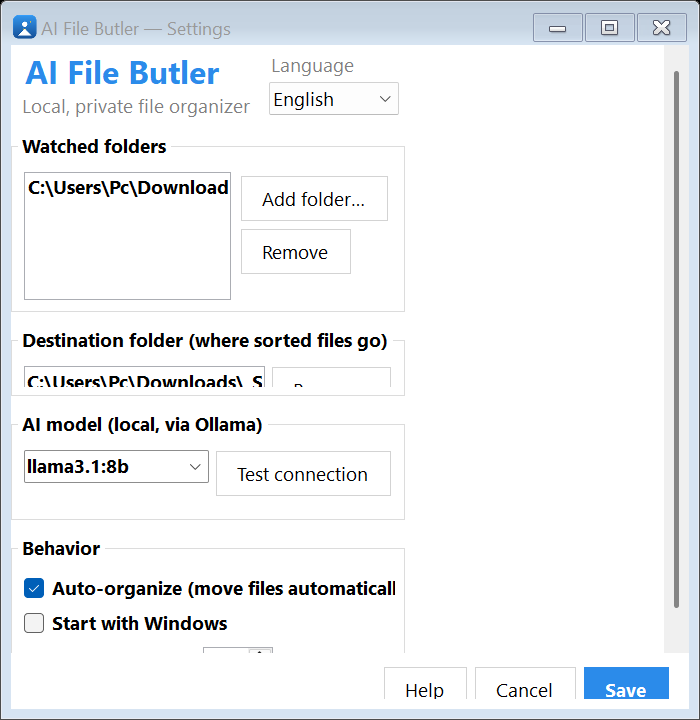
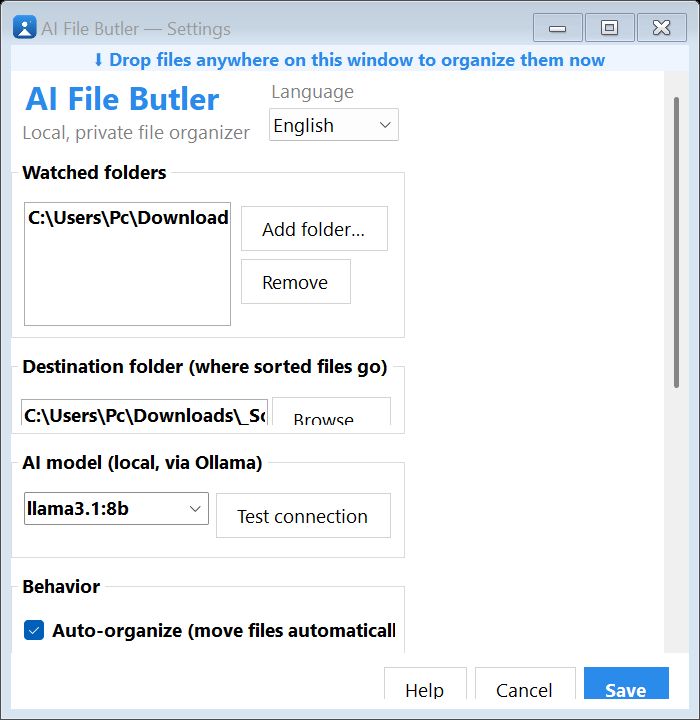
Add drag-and-drop, video date/location sorting, and many more file formats
- Drag files onto the Settings window to organize them immediately
- Videos can be sorted by date or location (for phone videos), not only genre/actor
- Greatly expanded format coverage + new Books, Fonts and Design categories

diff --git a/Watcher.cs b/Watcher.cs
@@ -67,26 +67,9 @@ public sealed class Watcher
                 foreach (var file in Eligible(dir))
                 {
                     var snippet = Extractor.Snippet(file.FullName, _cfg.MaxContentChars);
-                    Suggestion sug;
-                    var rule = _cfg.MatchRule(file.Name + "\n" + snippet);
-                    var learnedCat = rule is null ? _learner.Suggest(file.Name) : null;
-                    if (rule is not null)
-                    {
-                        var fname = Slug.Make(Path.GetFileNameWithoutExtension(file.Name), file.Extension);
-                        sug = new Suggestion("rule", fname, 0.95, $"your rule: \"{rule.Match}\"", "rule")
-                        { FolderOverride = rule.Folder };
-                    }
-                    else if (learnedCat is not null)
-                    {
-                        var fname = Slug.Make(Path.GetFileNameWithoutExtension(file.Name), file.Extension);
-                        sug = new Suggestion(learnedCat, fname, 0.95, "learned from your correction", "learned");
-                    }
-                    else
-                    {
-                        try { sug = clf.Classify(file, snippet); }
-                        catch (Exception ex) { Notify?.Invoke(EventKind.Error, $"{file.Name}: {ex.Message}"); continue; }
-                    }
-
+                    var decided = Decide(file, snippet, clf);
+                    if (decided is null) continue;
+                    var sug = decided.Value;
                     if (sug.Category == "music") sug = MediaMeta.EnrichMusic(file, sug);
                     var plan = Organizer.BuildPlan(file, sug, _cfg);
                     plans.Add(plan);
@@ -108,6 +91,56 @@ public sealed class Watcher
                 Notify?.Invoke(EventKind.Organized, string.Format(L.S("n_organized"), plans.Count, names + extra));
             }
             return plans;
+        }
+    }
+
+    /// <summary>Decide where a file goes: user rule, then learned, then AI/rules.
+    /// Returns null to skip (e.g. the classifier errored).</summary>
+    private Suggestion? Decide(FileInfo file, string snippet, IClassifier clf)
+    {
+        var fname = Slug.Make(Path.GetFileNameWithoutExtension(file.Name), file.Extension);
+        var rule = _cfg.MatchRule(file.Name + "\n" + snippet);
+        if (rule is not null)
+            return new Suggestion("rule", fname, 0.95, $"your rule: \"{rule.Match}\"", "rule") { FolderOverride = rule.Folder };
+        var learned = _learner.Suggest(file.Name);
+        if (learned is not null)
+            return new Suggestion(learned, fname, 0.95, "learned from your correction", "learned");
+        try { return clf.Classify(file, snippet); }
+        catch (Exception ex) { Notify?.Invoke(EventKind.Error, $"{file.Name}: {ex.Message}"); return null; }
+    }
+
+    /// <summary>Organize an explicit set of files now (e.g. drag-and-dropped),
+    /// regardless of folder/age settings. Runs on the calling thread.</summary>
+    public void OrganizeDropped(IEnumerable<string> paths)
+    {
+        lock (_lock)
+        {
+            var clf = ClassifierFactory.Get(_cfg);
+            Backend = clf.Backend;
+            var plans = new List<Plan>();
+            foreach (var p in paths)
+            {
+                if (!File.Exists(p)) continue;
+                var file = new FileInfo(p);
+                if (_cfg.IgnoreExts.Contains(file.Extension, StringComparer.OrdinalIgnoreCase)) continue;
+                var snippet = Extractor.Snippet(file.FullName, _cfg.MaxContentChars);
+                var decided = Decide(file, snippet, clf);
+                if (decided is null) continue;
+                var sug = decided.Value;
+                if (sug.Category == "music") sug = MediaMeta.EnrichMusic(file, sug);
+                var plan = Organizer.BuildPlan(file, sug, _cfg);
+                Organizer.Apply(plan);
+                _learner.RecordPlacement(plan.Dst, file.Name, plan.Category);
+                SessionCount++;
+                plans.Add(plan);
+            }
+            if (plans.Count > 0)
+            {
+                LastBatchSize = plans.Count;
+                var names = string.Join(", ", plans.Take(3).Select(p => p.DstName));
+                var extra = plans.Count > 3 ? $" +{plans.Count - 3} more" : "";
+                Notify?.Invoke(EventKind.Organized, string.Format(L.S("n_organized"), plans.Count, names + extra));
+            }
         }
     }
 

diff --git a/Classifier.cs b/Classifier.cs
@@ -153,19 +153,48 @@ public sealed class RuleClassifier : IClassifier
 
     private static readonly Dictionary<string, string> ExtCategory = new(StringComparer.OrdinalIgnoreCase)
     {
-        [".jpg"] = "image", [".jpeg"] = "image", [".png"] = "image", [".gif"] = "image",
-        [".webp"] = "image", [".bmp"] = "image", [".heic"] = "image", [".svg"] = "image",
-        [".exe"] = "installer", [".msi"] = "installer", [".msix"] = "installer", [".appx"] = "installer",
-        [".zip"] = "archive", [".rar"] = "archive", [".7z"] = "archive", [".tar"] = "archive",
-        [".gz"] = "archive", [".iso"] = "archive",
-        [".mp4"] = "movie", [".mkv"] = "movie", [".mov"] = "movie", [".avi"] = "movie", [".wmv"] = "movie", [".webm"] = "movie",
-        [".mp3"] = "music", [".wav"] = "music", [".flac"] = "music", [".m4a"] = "music", [".aac"] = "music", [".ogg"] = "music",
-        [".py"] = "code", [".js"] = "code", [".ts"] = "code", [".cs"] = "code", [".java"] = "code",
-        [".c"] = "code", [".cpp"] = "code", [".go"] = "code", [".rs"] = "code", [".sql"] = "code",
-        [".sh"] = "code", [".ps1"] = "code",
-        [".doc"] = "document", [".docx"] = "document", [".txt"] = "document", [".md"] = "document",
-        [".rtf"] = "document", [".odt"] = "document", [".pptx"] = "document", [".xlsx"] = "document",
-        [".csv"] = "document", [".pdf"] = "document",
+        // Images / photos
+        [".jpg"]="image",[".jpeg"]="image",[".jfif"]="image",[".png"]="image",[".gif"]="image",
+        [".webp"]="image",[".bmp"]="image",[".heic"]="image",[".heif"]="image",[".svg"]="image",
+        [".tif"]="image",[".tiff"]="image",[".ico"]="image",[".avif"]="image",[".raw"]="image",
+        [".cr2"]="image",[".cr3"]="image",[".nef"]="image",[".arw"]="image",[".dng"]="image",[".orf"]="image",[".rw2"]="image",
+        // Video
+        [".mp4"]="movie",[".mkv"]="movie",[".mov"]="movie",[".avi"]="movie",[".wmv"]="movie",[".webm"]="movie",
+        [".m4v"]="movie",[".mpg"]="movie",[".mpeg"]="movie",[".3gp"]="movie",[".flv"]="movie",[".ts"]="movie",
+        [".m2ts"]="movie",[".mts"]="movie",[".vob"]="movie",[".ogv"]="movie",[".rm"]="movie",[".rmvb"]="movie",[".divx"]="movie",
+        [".srt"]="movie",[".sub"]="movie",[".ass"]="movie",[".vtt"]="movie",[".ssa"]="movie",
+        // Audio / music
+        [".mp3"]="music",[".wav"]="music",[".flac"]="music",[".m4a"]="music",[".aac"]="music",[".ogg"]="music",
+        [".wma"]="music",[".opus"]="music",[".aiff"]="music",[".aif"]="music",[".alac"]="music",[".mid"]="music",
+        [".midi"]="music",[".amr"]="music",[".ape"]="music",[".dsf"]="music",
+        // Installers / packages
+        [".exe"]="installer",[".msi"]="installer",[".msix"]="installer",[".appx"]="installer",[".appxbundle"]="installer",
+        [".apk"]="installer",[".aab"]="installer",[".deb"]="installer",[".rpm"]="installer",[".dmg"]="installer",
+        [".pkg"]="installer",[".bat"]="installer",[".cmd"]="installer",[".jar"]="installer",
+        // Archives / disk images
+        [".zip"]="archive",[".rar"]="archive",[".7z"]="archive",[".tar"]="archive",[".gz"]="archive",
+        [".bz2"]="archive",[".xz"]="archive",[".tgz"]="archive",[".zst"]="archive",[".lz"]="archive",[".lzma"]="archive",
+        [".cab"]="archive",[".arj"]="archive",[".iso"]="archive",[".img"]="archive",[".vhd"]="archive",[".vhdx"]="archive",
+        // Code / dev
+        [".py"]="code",[".js"]="code",[".mjs"]="code",[".ts"]="code",[".tsx"]="code",[".jsx"]="code",[".cs"]="code",
+        [".java"]="code",[".kt"]="code",[".c"]="code",[".h"]="code",[".cpp"]="code",[".cc"]="code",[".hpp"]="code",
+        [".go"]="code",[".rs"]="code",[".rb"]="code",[".php"]="code",[".swift"]="code",[".scala"]="code",[".lua"]="code",
+        [".pl"]="code",[".r"]="code",[".dart"]="code",[".vue"]="code",[".sql"]="code",[".sh"]="code",[".ps1"]="code",
+        [".html"]="code",[".htm"]="code",[".css"]="code",[".scss"]="code",[".json"]="code",[".xml"]="code",
+        [".yaml"]="code",[".yml"]="code",[".toml"]="code",[".ini"]="code",[".gradle"]="code",[".ipynb"]="code",
+        // Documents / office / data
+        [".doc"]="document",[".docx"]="document",[".txt"]="document",[".md"]="document",[".rtf"]="document",
+        [".odt"]="document",[".pptx"]="document",[".ppt"]="document",[".odp"]="document",[".xlsx"]="document",
+        [".xls"]="document",[".ods"]="document",[".csv"]="document",[".tsv"]="document",[".pdf"]="document",
+        [".pages"]="document",[".numbers"]="document",[".key"]="document",[".tex"]="document",[".log"]="document",
+        // Ebooks
+        [".epub"]="ebook",[".mobi"]="ebook",[".azw"]="ebook",[".azw3"]="ebook",[".fb2"]="ebook",[".djvu"]="ebook",[".cbz"]="ebook",[".cbr"]="ebook",
+        // Fonts
+        [".ttf"]="font",[".otf"]="font",[".woff"]="font",[".woff2"]="font",[".eot"]="font",[".fon"]="font",
+        // Design / 3D / CAD
+        [".psd"]="design",[".ai"]="design",[".xd"]="design",[".fig"]="design",[".sketch"]="design",[".indd"]="design",
+        [".eps"]="design",[".cdr"]="design",[".afphoto"]="design",[".afdesign"]="design",
+        [".stl"]="design",[".obj"]="design",[".fbx"]="design",[".blend"]="design",[".dwg"]="design",[".dxf"]="design",[".step"]="design",[".3mf"]="design",
     };
 
     private static readonly Dictionary<string, string[]> Keywords = new()

diff --git a/SettingsForm.cs b/SettingsForm.cs
@@ -31,7 +31,7 @@ public sealed class SettingsForm : Form
     private readonly TextBox _ruleFolder = new();
 
     private static readonly string[] MusicOpts = { "artist", "genre", "year", "alpha", "none" };
-    private static readonly string[] MovieOpts = { "genre", "actor", "year", "alpha", "none" };
+    private static readonly string[] MovieOpts = { "genre", "actor", "year", "date", "location", "alpha", "none" };
     private static readonly string[] PhotoOpts = { "date", "location", "person", "alpha", "none" };
 
     // controls whose .Text follows the language
@@ -58,6 +58,27 @@ public sealed class SettingsForm : Form
         BuildLayout();
         LoadValues();
         Localize();
+        EnableDrop(this); // drag & drop files anywhere to organize them now
+    }
+
+    private void EnableDrop(Control c)
+    {
+        if (c is not (TextBox or ComboBox or ListBox or NumericUpDown))
+        {
+            c.AllowDrop = true;
+            c.DragEnter += (_, e) =>
+            { if (e.Data?.GetDataPresent(DataFormats.FileDrop) == true) e.Effect = DragDropEffects.Copy; };
+            c.DragDrop += OnFilesDropped;
+        }
+        foreach (Control child in c.Controls) EnableDrop(child);
+    }
+
+    private void OnFilesDropped(object? sender, DragEventArgs e)
+    {
+        if (e.Data?.GetData(DataFormats.FileDrop) is not string[] files) return;
+        var real = files.Where(File.Exists).ToArray();
+        if (real.Length == 0) return;
+        Task.Run(() => _watcher.OrganizeDropped(real)); // off the UI thread (AI is slow)
     }
 
     private Control Reg(Control c, string key) { _loc.Add((c, key)); return c; }
@@ -77,6 +98,16 @@ public sealed class SettingsForm : Form
         var scroll = new Panel { Dock = DockStyle.Fill, AutoScroll = true, Padding = new Padding(16, 16, 16, 0) };
         Controls.Add(scroll);
         Controls.SetChildIndex(scroll, 0);
+
+        // drop hint (lands at the very top of the form)
+        var dropHint = new Label
+        {
+            Dock = DockStyle.Top, Height = 26, TextAlign = ContentAlignment.MiddleCenter,
+            ForeColor = Accent, BackColor = Color.FromArgb(238, 245, 255),
+            Font = new Font("Segoe UI", 9f, FontStyle.Bold),
+        };
+        Reg(dropHint, "drop_hint");
+        Controls.Add(dropHint);
 
         var root = new TableLayoutPanel { Dock = DockStyle.Top, ColumnCount = 1, AutoSize = true, AutoSizeMode = AutoSizeMode.GrowAndShrink, Width = 1 };
         root.Anchor = AnchorStyles.Left | AnchorStyles.Right | AnchorStyles.Top;

diff --git a/Organizer.cs b/Organizer.cs
@@ -48,7 +48,13 @@ public static class Organizer
             case "music":
                 return Pick(cfg.MusicBy, s, s.Person);
             case "movie":
-                return Pick(cfg.MovieBy, s, s.Person);
+                // films use AI genre/actor/year; phone videos use date/location
+                return cfg.MovieBy switch
+                {
+                    "date" => PhotoMeta.DateFolder(src),
+                    "location" => PhotoMeta.LocationFolder(src),
+                    _ => Pick(cfg.MovieBy, s, s.Person),
+                };
             case "image":
                 return cfg.ImageBy switch
                 {

diff --git a/Config.cs b/Config.cs
@@ -22,6 +22,9 @@ public sealed class Config
         ("code",      "Code"),
         ("music",     "Music"),
         ("movie",     "Movies"),
+        ("ebook",     "Books"),
+        ("font",      "Fonts"),
+        ("design",    "Design"),
         ("misc",      "Misc"),
     };
 

diff --git a/Localization.cs b/Localization.cs
@@ -44,6 +44,7 @@ internal static class L
             ["rules"] = "My rules", ["rule_match"] = "If name/content contains…",
             ["rule_folder"] = "→ put in folder", ["rule_add"] = "Add rule",
             ["rule_hint"] = "Your rules win over the AI. Folder can be nested, e.g. Invoices/Orange.",
+            ["drop_hint"] = "⬇ Drop files anywhere on this window to organize them now",
             ["help"] = "Help", ["save"] = "Save", ["cancel"] = "Cancel",
             ["m_settings"] = "Settings…", ["m_auto"] = "Auto-organize", ["m_pause"] = "Pause",
             ["m_organize"] = "Organize now", ["m_undo"] = "Undo last batch",
@@ -102,6 +103,7 @@ internal static class L
             ["rules"] = "Regulile mele", ["rule_match"] = "Dacă numele/conținutul conține…",
             ["rule_folder"] = "→ pune în folderul", ["rule_add"] = "Adaugă regula",
             ["rule_hint"] = "Regulile tale au prioritate față de AI. Folderul poate fi imbricat, ex. Facturi/Orange.",
+            ["drop_hint"] = "⬇ Trage fișiere oriunde pe această fereastră ca să le organizez acum",
             ["help"] = "Ajutor", ["save"] = "Salvează", ["cancel"] = "Anulează",
             ["m_settings"] = "Setări…", ["m_auto"] = "Auto-organizare", ["m_pause"] = "Pauză",
             ["m_organize"] = "Organizează acum", ["m_undo"] = "Anulează ultima tură",